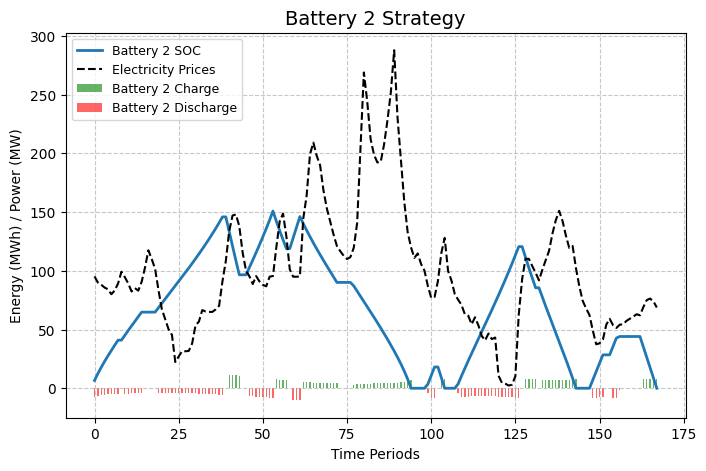
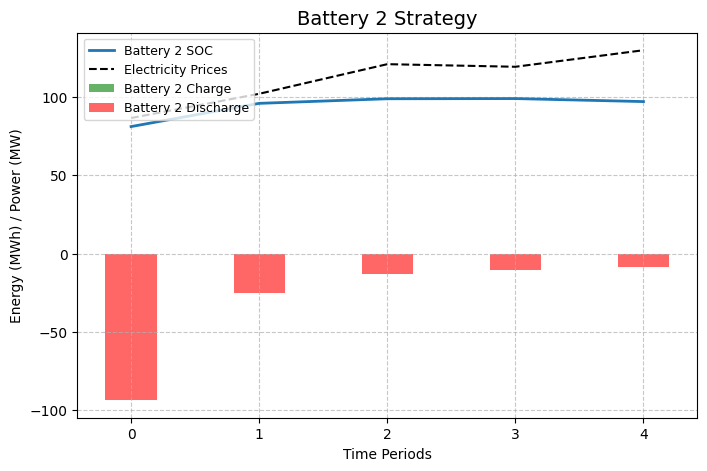
Updated example with plotting

diff --git a/last_semester_example.py b/last_semester_example.py
@@ -4,8 +4,10 @@
 
 # define batteries and power exhanges or load them from db
 
+import numpy as np
 from dataflow_manager.dataflow_classes import DataFetchingFromFileNode
 from dataflow_manager.dataflow_manager import DataFlowManager
+from archive.lib_descriptive import plot_battery_arbitrage_multiple
 from optimization.energy_sector_classes import Battery, PowerExchange
 from optimization.solver_classes import GraphProblemClass
 
@@ -21,11 +23,11 @@ def trainFunc1(dfs):
     return dfs
 
 if __name__ == "__main__":
-    problemClass = GraphProblemClass()
+    problemClass = GraphProblemClass("graph_problem")
     battery1 = Battery(problemClass, 50, 50, "bat1", 100 )
     battery2 = Battery(problemClass, 100, 100,"bat2",  200)
     battery3 = Battery(problemClass, 150, 150, "bat3", 300)
-    power_exchange = PowerExchange(problemClass, 50, 50)
+    power_exchange = PowerExchange(problemClass, 50, 50, "power_exchange")
 
     # Connect the nodes
     power_exchange - battery1
@@ -47,12 +49,29 @@ if __name__ == "__main__":
     dfs = DataFlowManager.getInstance().getData(PowerExchange, 1)
     print(dfs)
     # convert to numpy array
-    power_exchange.prices = dfs["priceEUR"].values
+    power_exchange.prices = dfs["csv_prices"].values.flatten()
     
     problemClass.getObjectiveFunction("minimize").values("cost")
     # solve the problem and get the results
     problemClass.solve()
     allVariables = problemClass.getAllVariables()
     print(allVariables)
+
+
+
+    # # For each battery, get the state of charge and the power flow and store it as ndimensioal array
+    soc = []
+    power_flow = []
+
+    for item in allVariables:
+        if isinstance(item, dict):  # Ensure the item is a dictionary
+            for key, value in item.items():
+                if 'SOC' in value and 'powerFlow' in value:  # Check if the key contains SOC and powerFlow
+                    soc.append(value['SOC'])
+                    power_flow.append(value['powerFlow'])
+
+    soc = np.array(soc)
+    power_flow = np.array(power_flow)
+    plot_battery_arbitrage_multiple(power_exchange.prices, soc, power_flow, 3)
     
     

diff --git a/dataflow_manager/dataflow.py b/dataflow_manager/dataflow.py
@@ -28,4 +28,4 @@ class Dataflow:
         for node in self.nodes.values():
             if node._final:
                 node.run()
-                return node.getResults()
+                return node.get_results()
